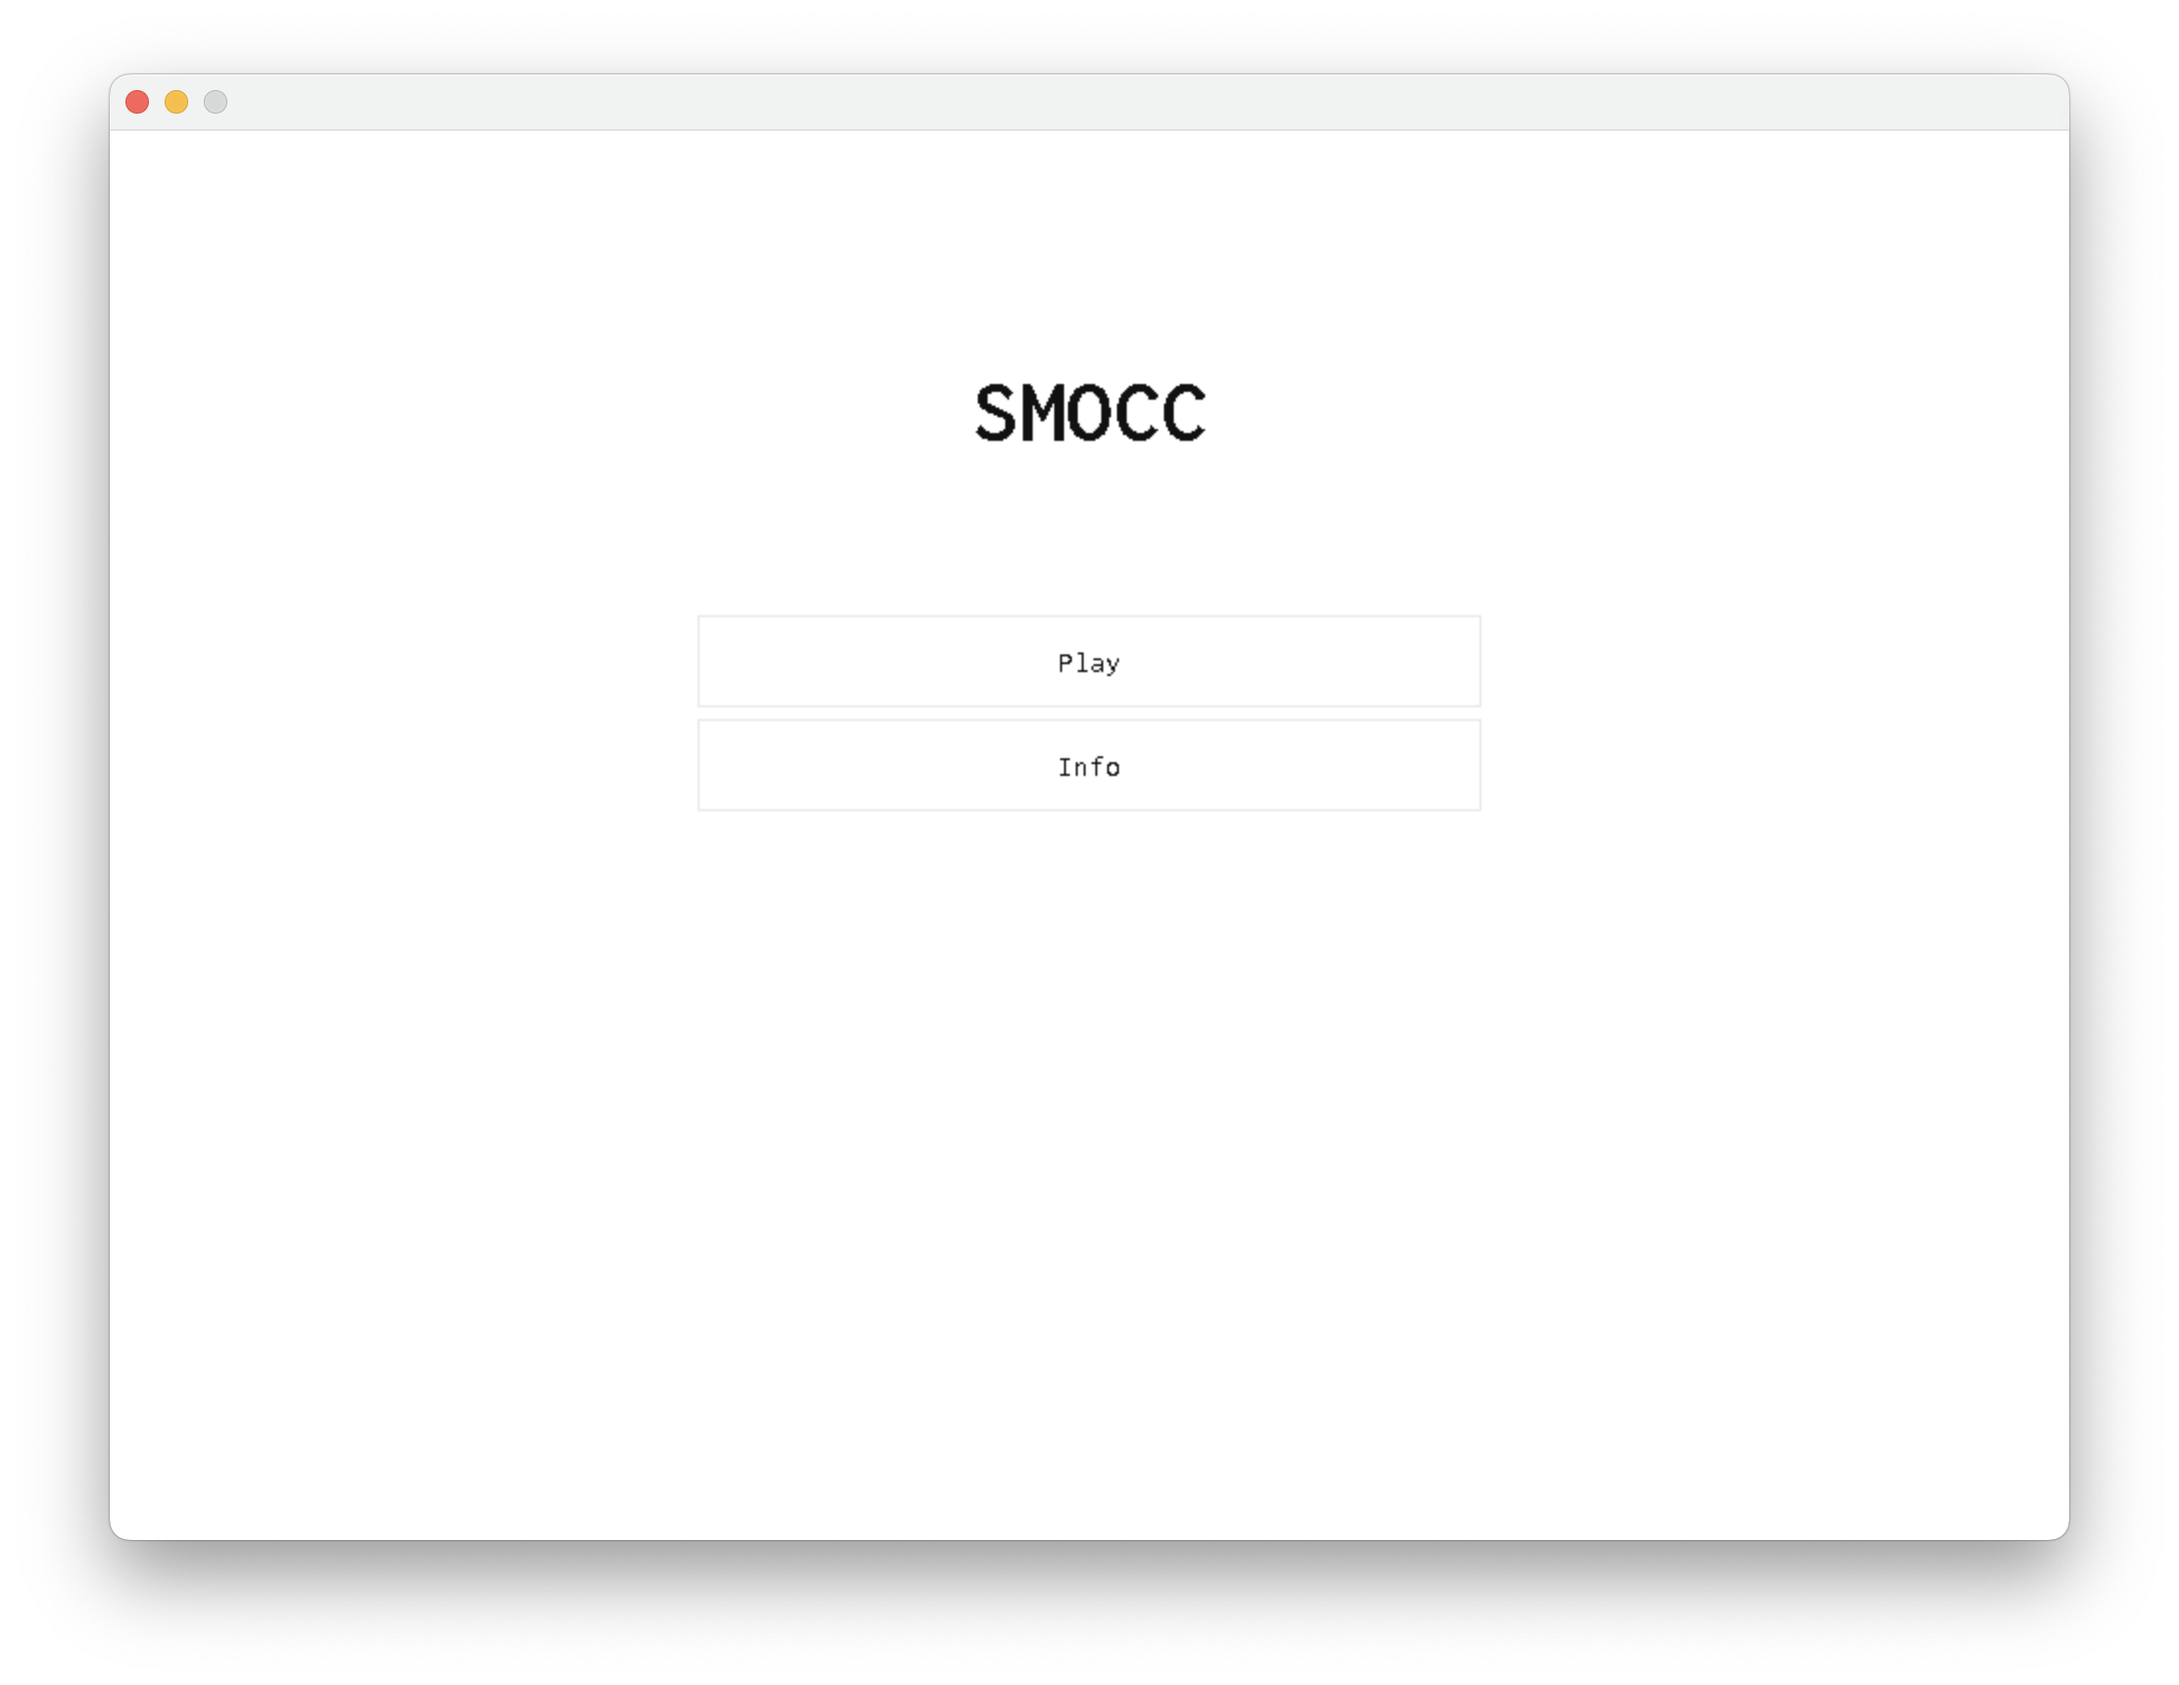
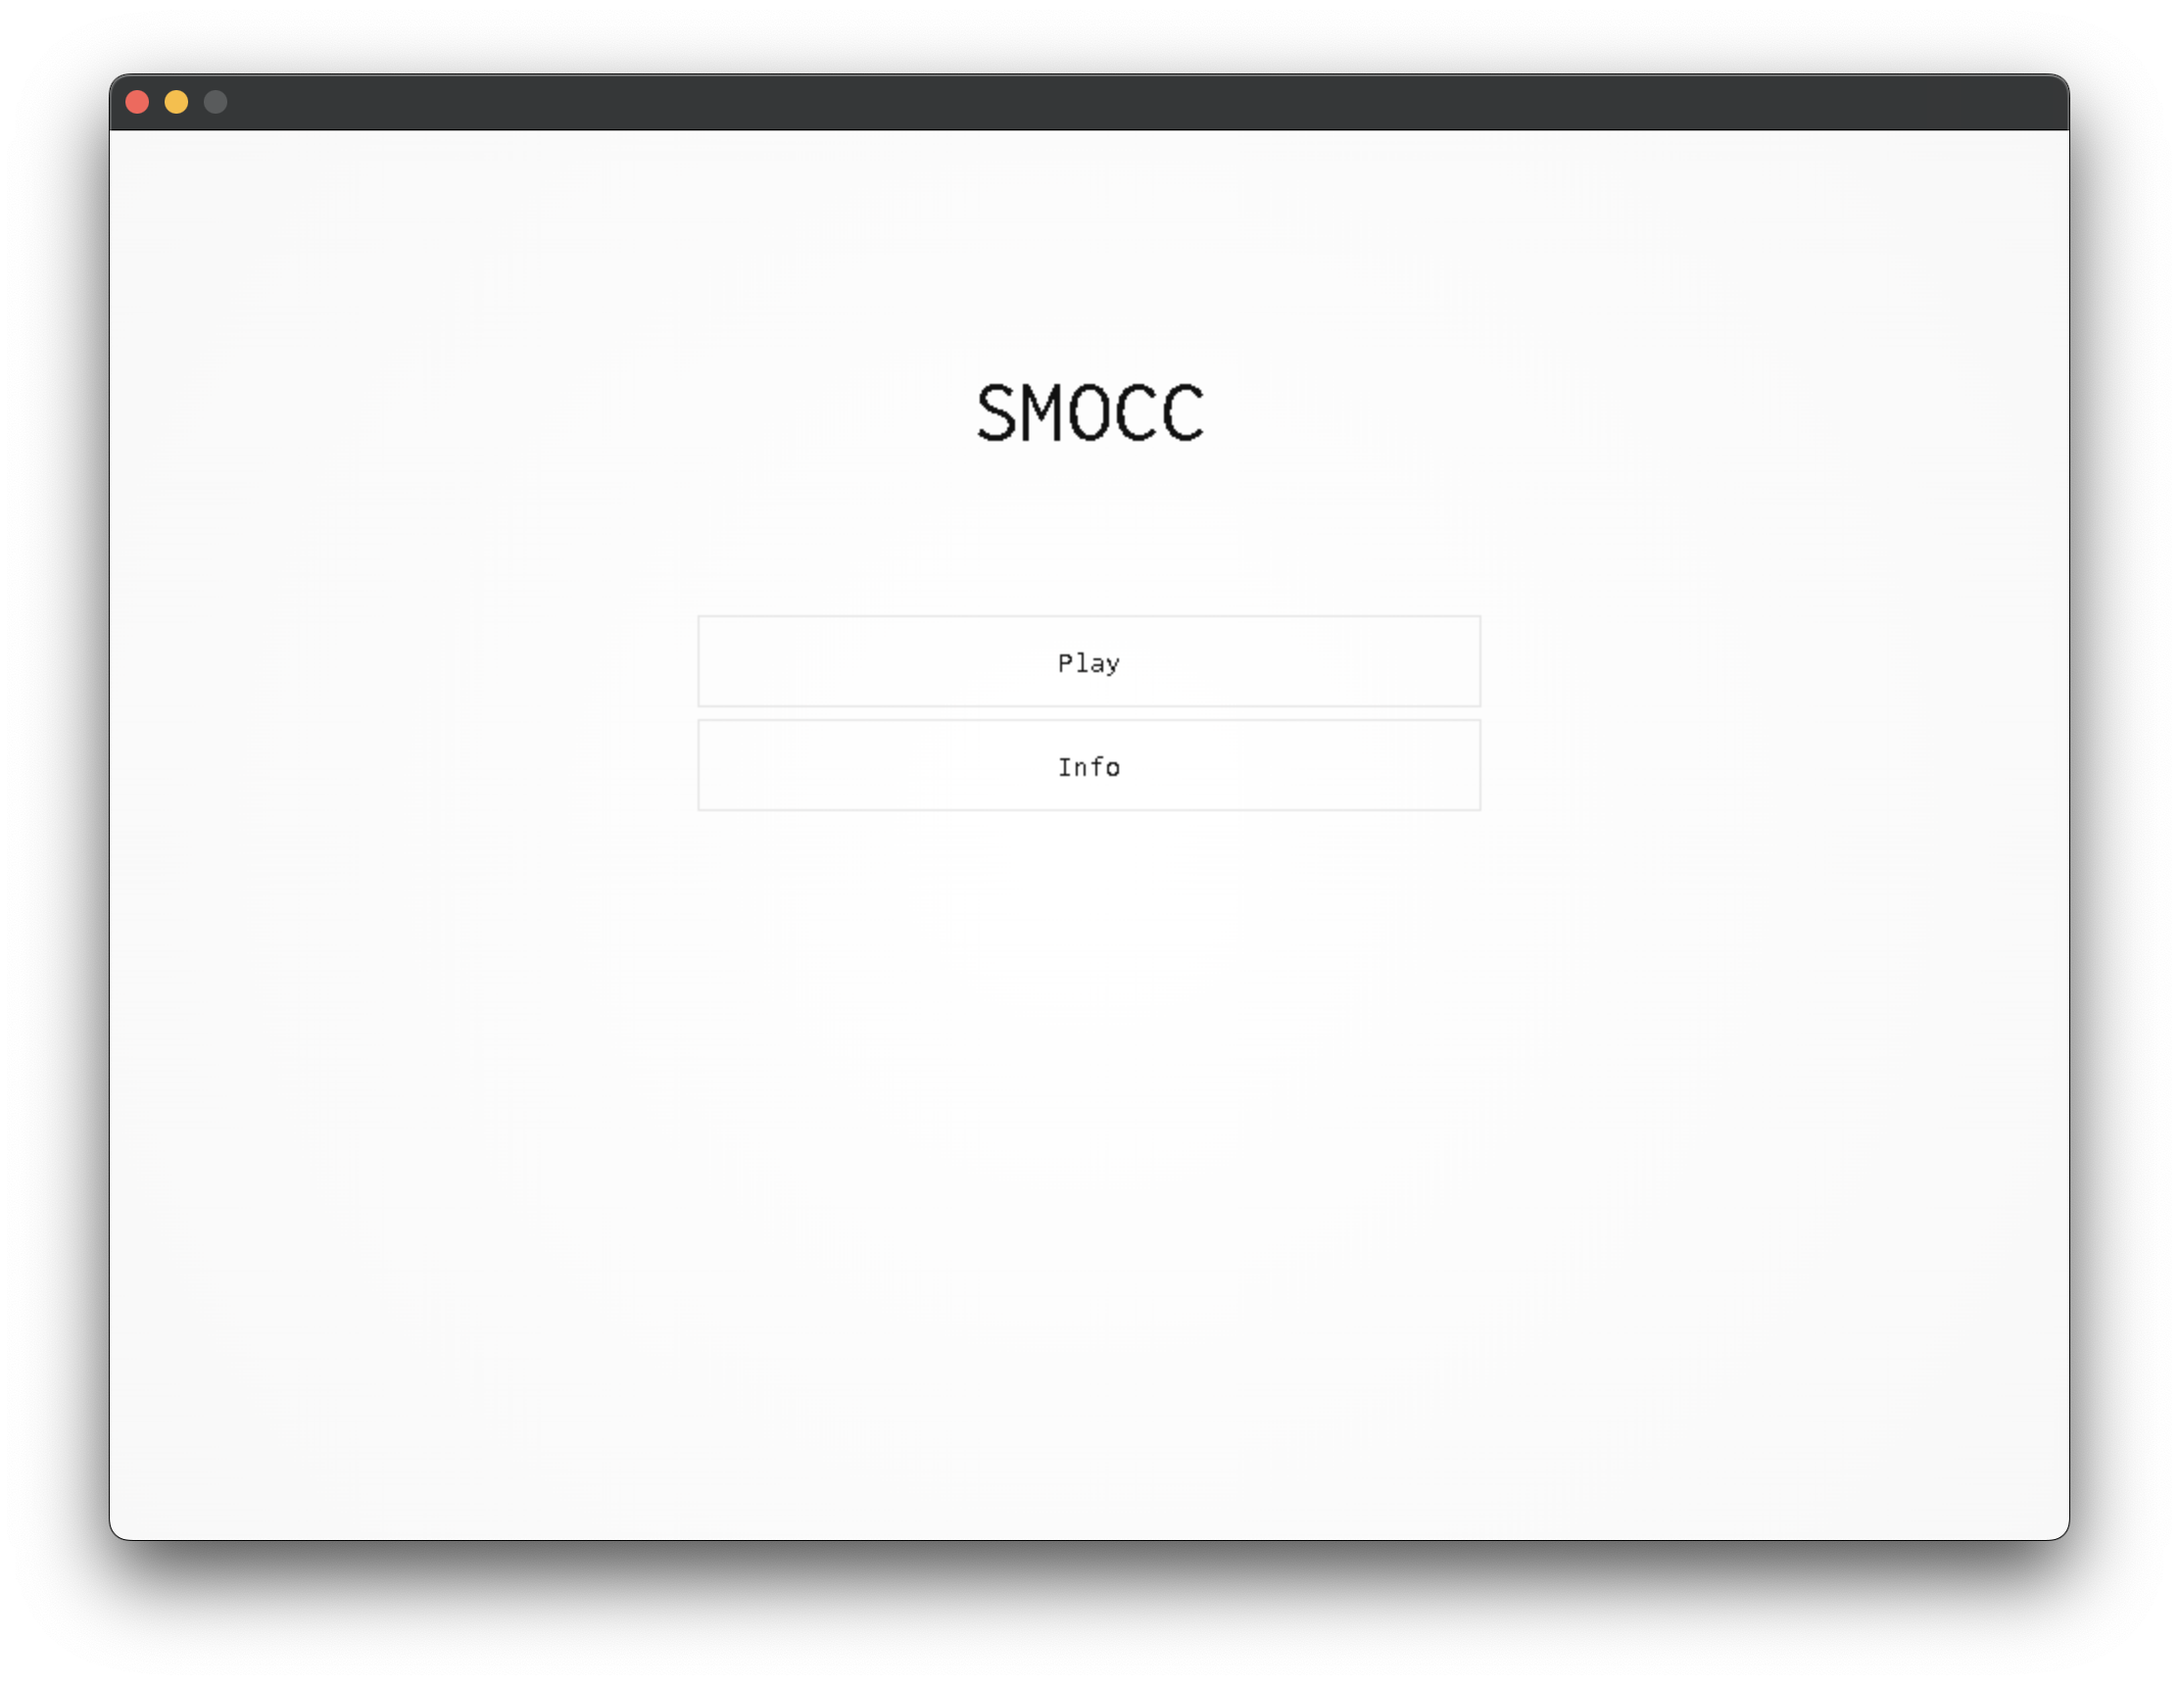
Draw faint radial gradient as background

Changed region(s): [[0.031, 0.0308, 0.9618, 0.9552], [0.4344, 0.2157, 0.5585, 0.2773]]

diff --git a/src/background.cc b/src/background.cc
@@ -1,0 +1,48 @@
+/*
+
+background.cc: Background drawing for SMOCC
+
+Copyright (C) 2024 Nicola Fiori (JD342)
+
+This file is part of SMOCC, licensed under GNU General Public License 3.0.
+
+*/
+
+#include <cassert>
+
+#include <SDL.h>
+#include <SDL_image.h>
+
+#include "background.h"
+#include "smocc.h"
+
+namespace smocc::background
+{
+
+SDL_Texture* _background;
+
+void init()
+{
+    SDL_Renderer* renderer = smocc::getRenderer();
+
+    _background = IMG_LoadTexture(renderer, "background.png");
+
+    assert(_background != NULL);
+}
+
+void update()
+{
+    SDL_Renderer* renderer = smocc::getRenderer();
+    SDL_Rect windowRect;
+
+    windowRect.x = 0;
+    windowRect.y = 0;
+
+    SDL_GetWindowSize(smocc::getWindow(), &windowRect.w, &windowRect.h);
+
+    int res = SDL_RenderCopy(renderer, _background, NULL, &windowRect);
+
+    assert(res == 0);
+}
+
+} // namespace smocc::background

diff --git a/src/smocc.cc b/src/smocc.cc
@@ -11,6 +11,7 @@ This file is part of SMOCC, licensed under GNU General Public License 3.0.
 #include <SDL.h>
 #include <iostream>
 
+#include "background.h"
 #include "buffs.h"
 #include "bullets.h"
 #include "enemies.h"
@@ -87,6 +88,7 @@ void _init(int argc, char* argv[])
         exit(1);
     }
 
+    smocc::background::init();
     smocc::ui::init();
     smocc::ui::text::init(argc, argv);
     smocc::ui::main_menu::init();
@@ -117,6 +119,7 @@ void _update()
     while (!_quit && SDL_PollEvent(&e))
         _event(&e);
 
+    smocc::background::update();
     smocc::ui::update();
     smocc::ui::main_menu::update();
     smocc::ui::info::update();

diff --git a/src/background.h b/src/background.h
@@ -1,0 +1,19 @@
+/*
+
+background.h: Background drawing for SMOCC
+
+Copyright (C) 2024 Nicola Fiori (JD342)
+
+This file is part of SMOCC, licensed under GNU General Public License 3.0.
+
+*/
+
+#pragma once
+
+namespace smocc::background
+{
+
+void init();
+void update();
+
+} // namespace smocc::background

diff --git a/README.md b/README.md
@@ -15,6 +15,7 @@ _These instructions are for macOS._
 - Install [Homebrew].
 - Install [SDL2]: `brew install sdl2`
 - Install [SDL2_ttf](https://wiki.libsdl.org/SDL2_ttf/FrontPage): `brew install sdl2_ttf`
+- Install [SDL2_image](https://wiki.libsdl.org/SDL2_image/FrontPage): `brew install sdl2_image`
 
 [VSCodium]: https://vscodium.com
 [VSCode]: https://code.visualstudio.com
